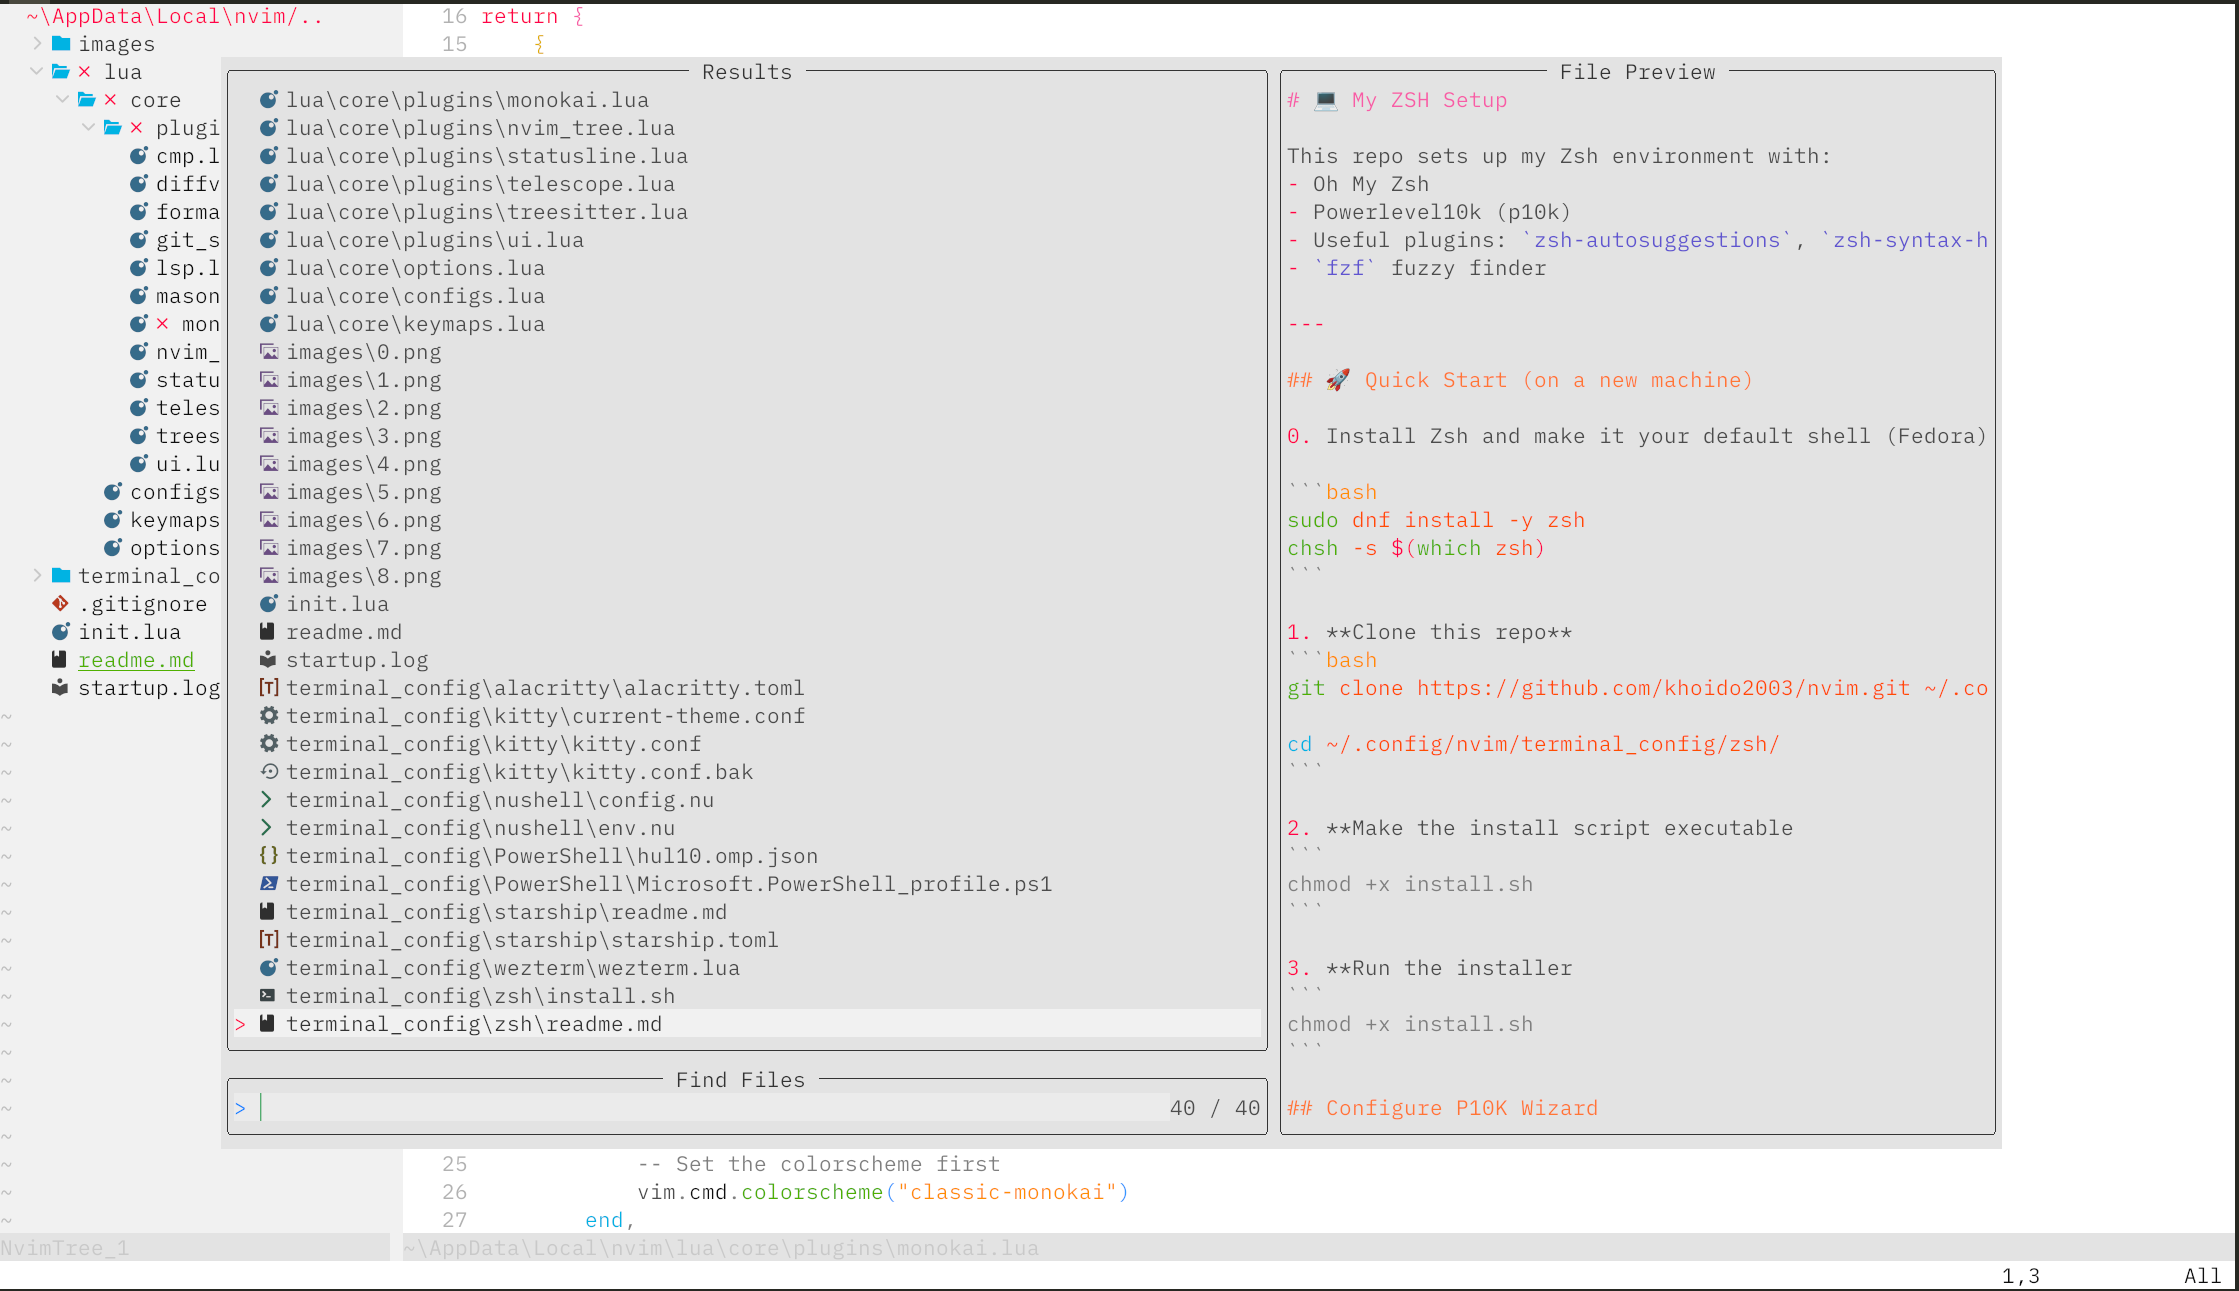
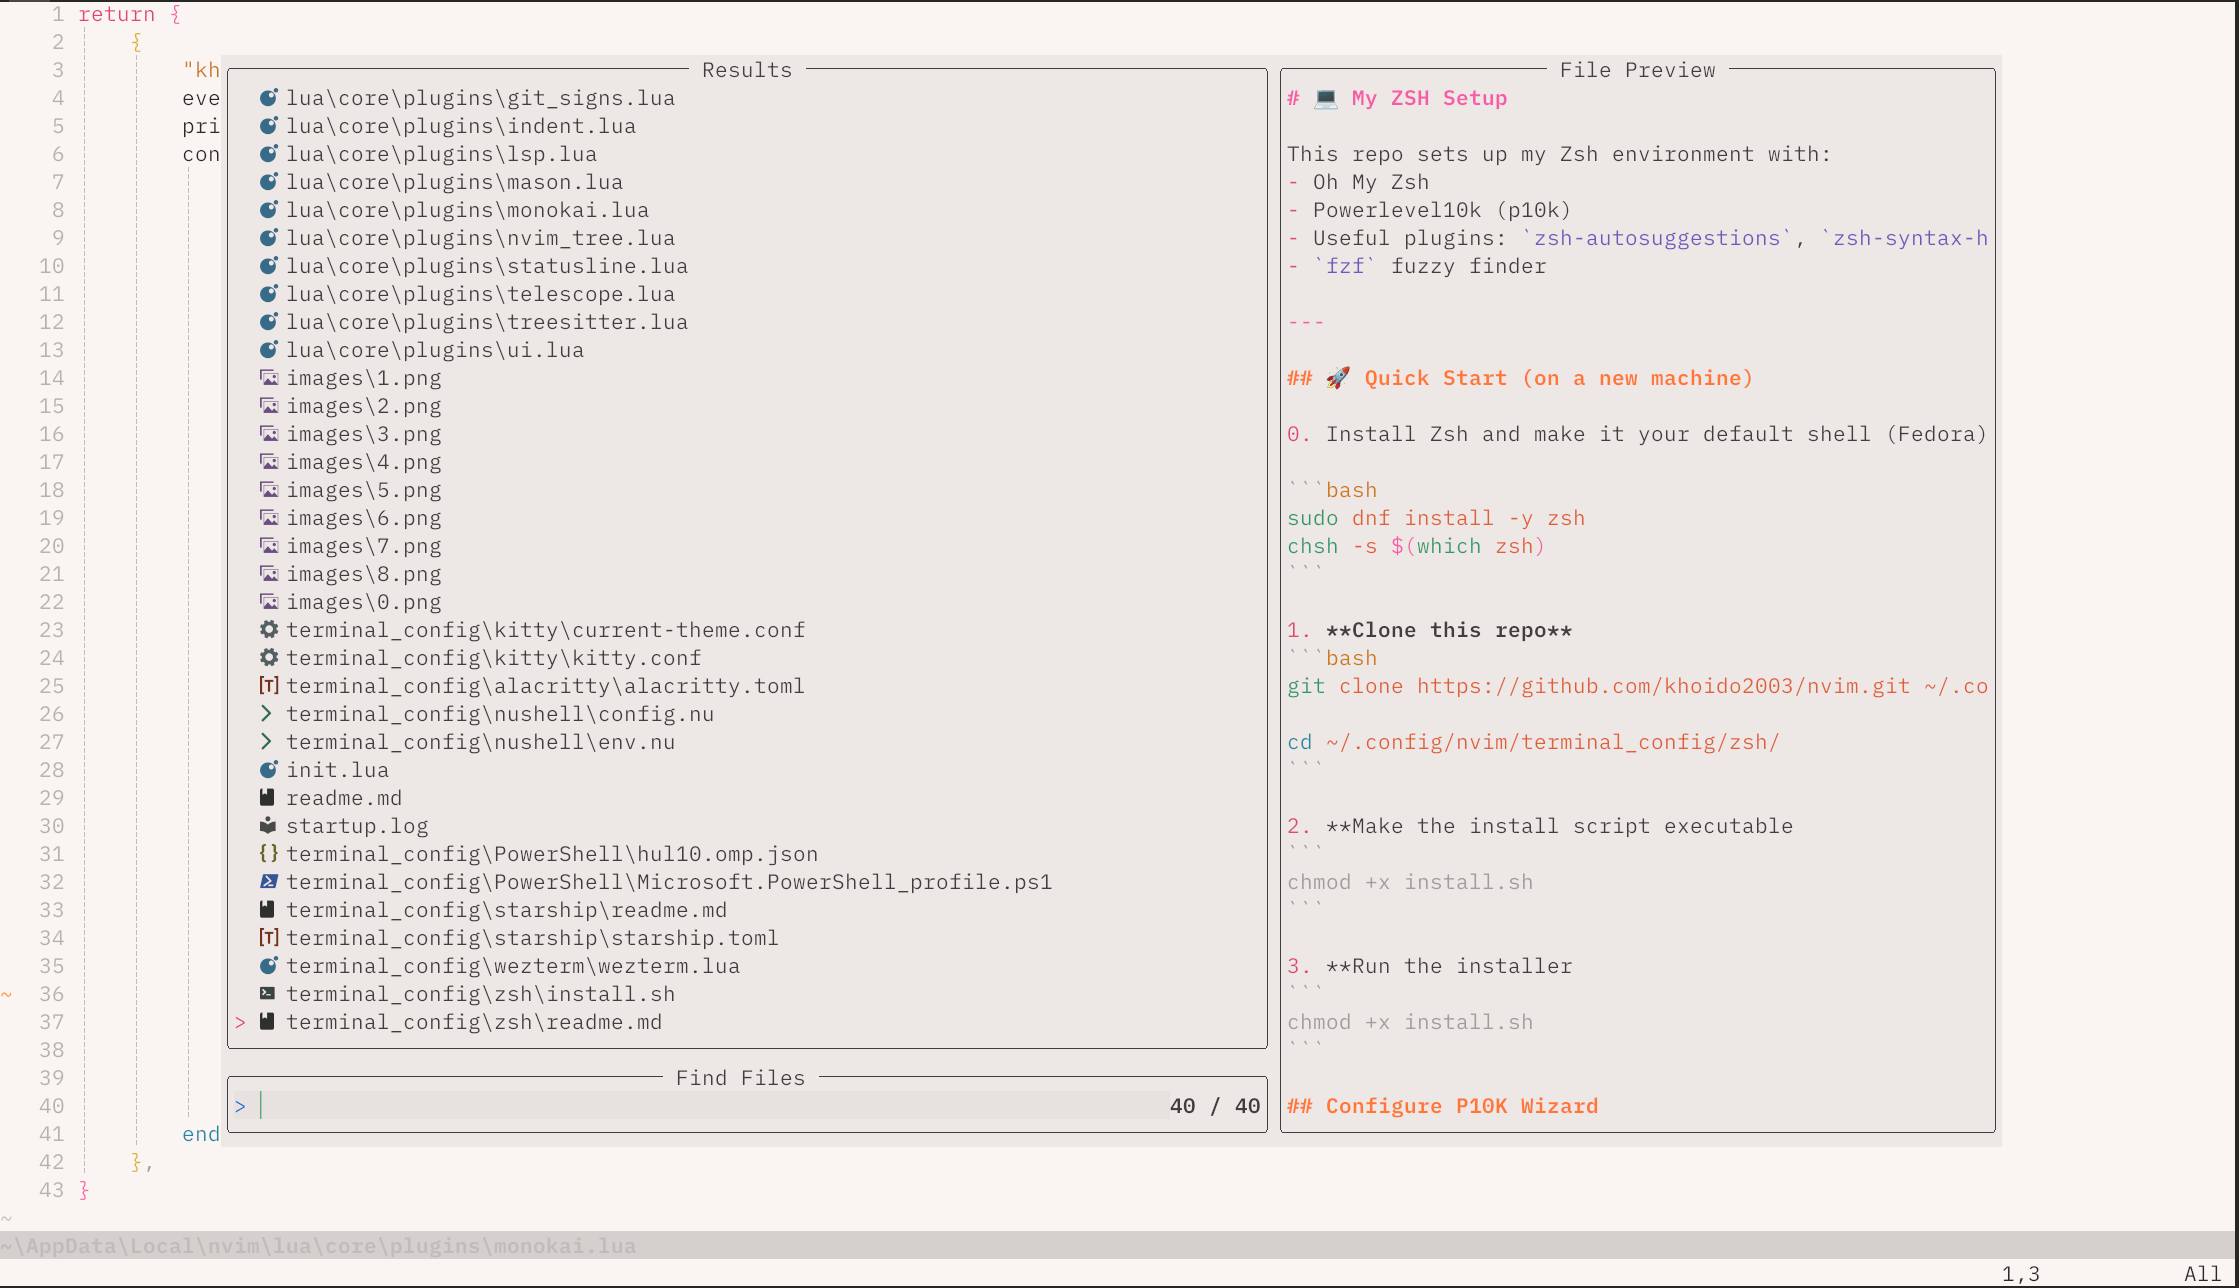
chore: update readme.md and update new images

diff --git a/README.md b/README.md
@@ -10,7 +10,7 @@
 
 I've always been in love with the original Monokai theme from Sublime Text - its vibrant colors and perfect readability made coding a true joy. This theme is my attempt to bring that same magical experience to Neovim.
 
-This colorscheme is a fork of [monokai-nightasty.nvim](https://github.com/polirritmico/monokai-nightasty.nvim) by [@polirritmico](https://github.com/polirritmico). His incredible work laid the foundation for this theme, and I'm deeply grateful for his contribution to the Neovim community. I've made some adjustments to bring the colors closer to the classic Sublime Text Monokai experience while keeping the modern Neovim features intact.
+This colorscheme is a fork of [monokai-nightasty.nvim](https://github.com/polirritmico/monokai-nightasty.nvim) by [@polirritmico](https://github.com/polirritmico). His incredible work laid the foundation for this theme. I've made some adjustments to bring the colors closer to the classic Sublime Text Monokai experience while keeping the modern Neovim features intact.
 
 ## ⚡ Requirements
 
@@ -84,13 +84,16 @@ require("classic_monokai").setup({
       terminal_colors = true, -- true | false | table | function
 
       -- Enable theme caching for better performance
-      cache = true, -- true | false
+      cache = false, -- true | false
     })
     vim.cmd.colorscheme("classic-monokai")
 ```
 
-## Rainbow Delimiters
+## 🌈 Rainbow Delimiters
 The colorscheme looks better with [rainbow-delimiters.nvim](https://github.com/HiPhish/rainbow-delimiters.nvim)
+
+![Dark Theme](images/1.png)
+![Light Theme](images/4.png)
 
 ## 🎨 Color Palette
 
